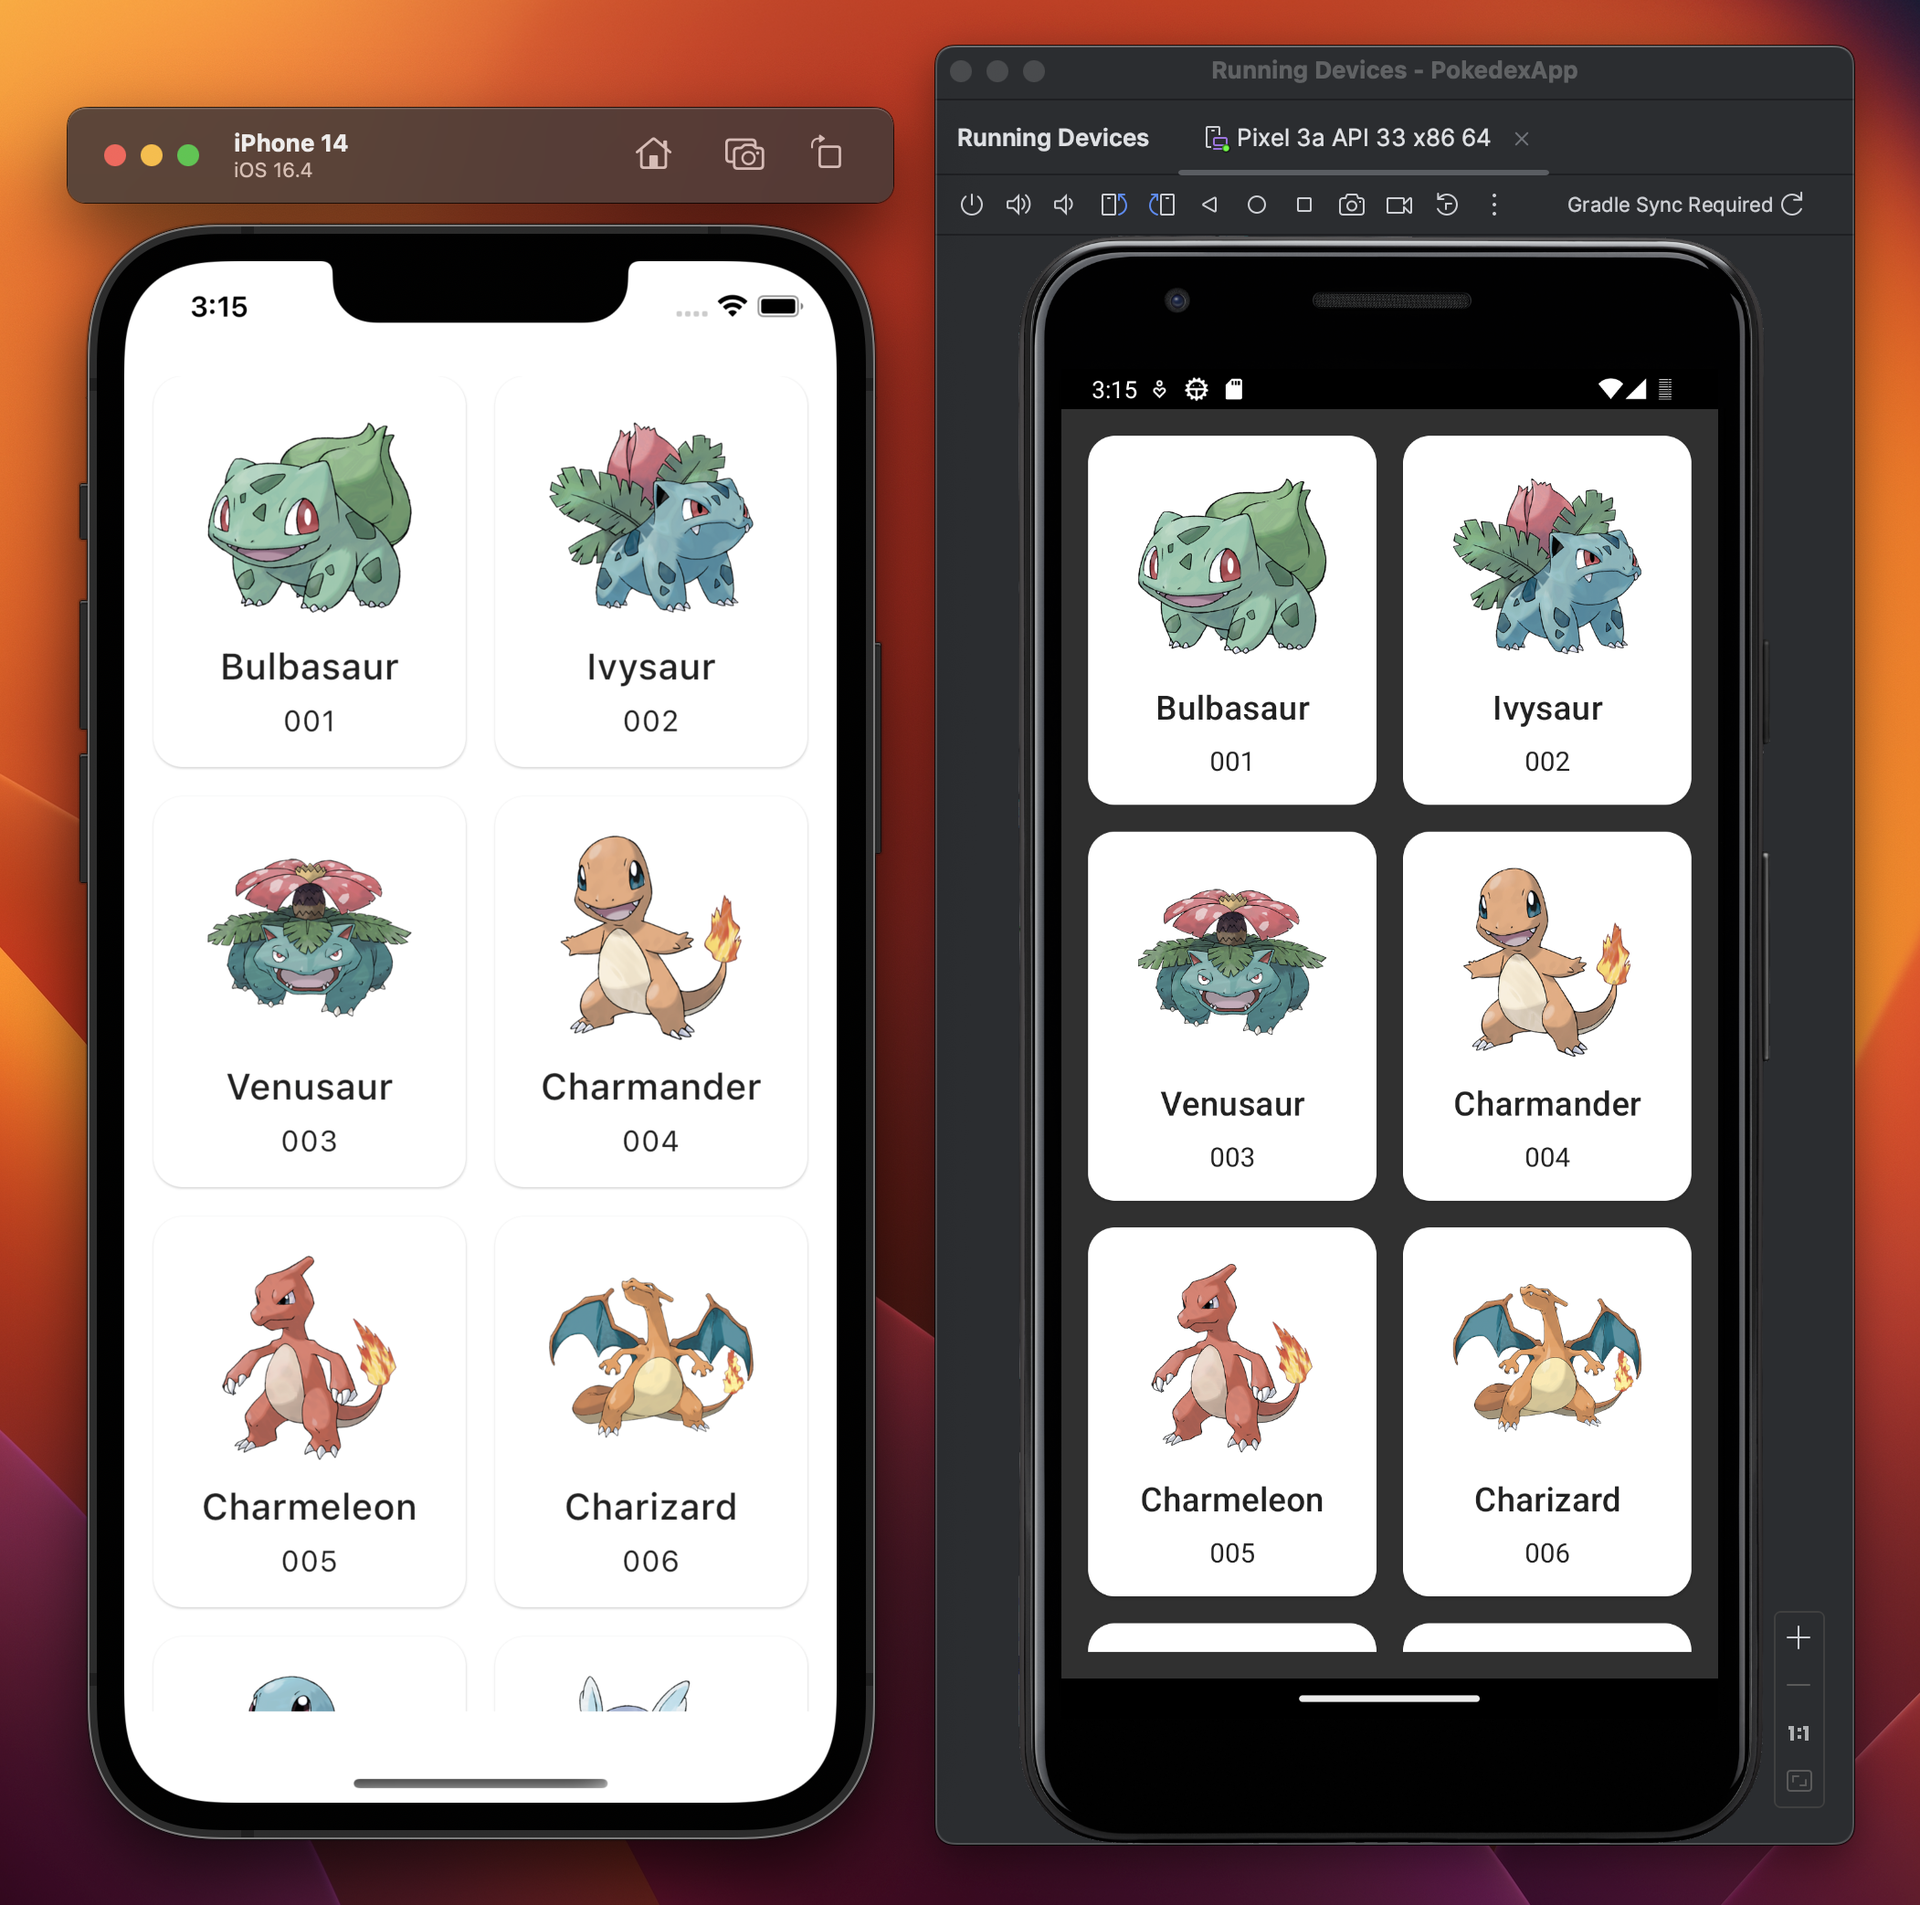
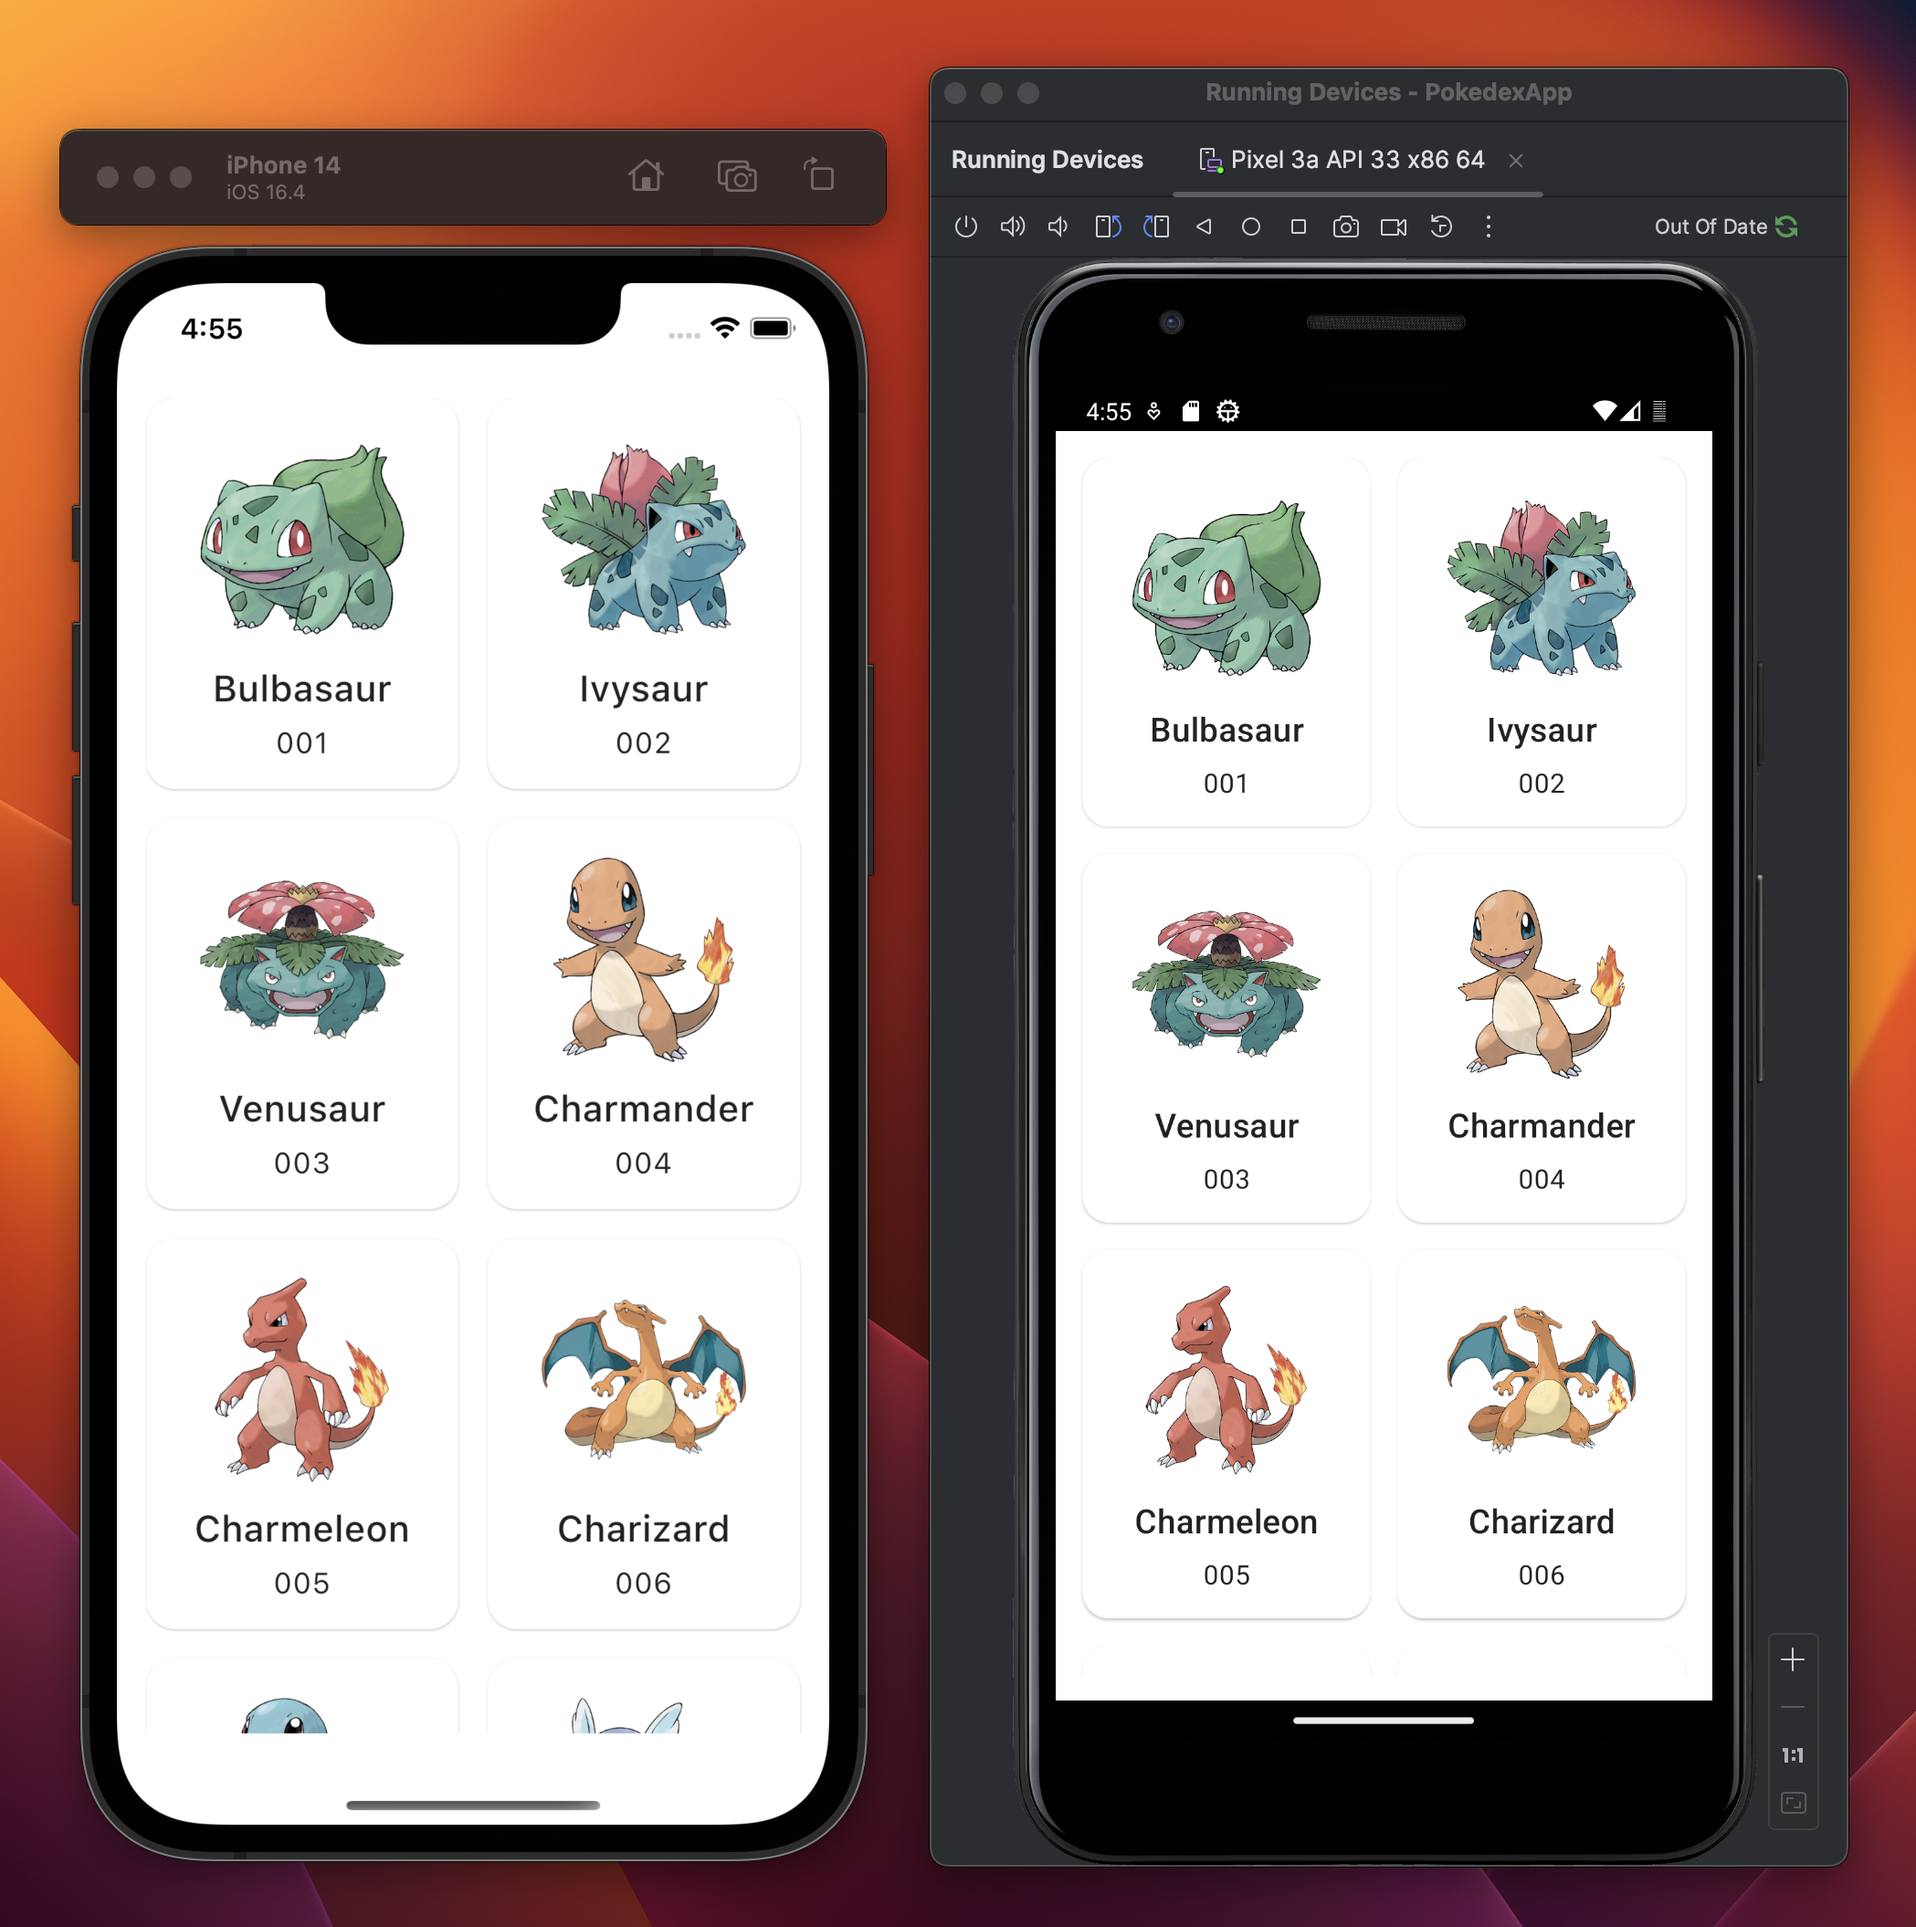
utils extracted from pokemon class

diff --git a/shared/src/commonMain/kotlin/com/example/pokedexapp/App.kt b/shared/src/commonMain/kotlin/com/example/pokedexapp/App.kt
@@ -1,39 +1,21 @@
 package com.example.pokedexapp
 
-import androidx.compose.animation.AnimatedVisibility
-import androidx.compose.foundation.layout.Arrangement
-import androidx.compose.foundation.layout.Column
-import androidx.compose.foundation.layout.Spacer
-import androidx.compose.foundation.layout.fillMaxSize
-import androidx.compose.foundation.layout.fillMaxWidth
-import androidx.compose.foundation.layout.height
-import androidx.compose.foundation.layout.padding
-import androidx.compose.foundation.lazy.grid.GridCells
-import androidx.compose.foundation.lazy.grid.LazyVerticalGrid
-import androidx.compose.foundation.lazy.grid.items
-import androidx.compose.foundation.shape.RoundedCornerShape
-import androidx.compose.material.Card
 import androidx.compose.material.MaterialTheme
-import androidx.compose.material.Text
+import androidx.compose.material.Surface
 import androidx.compose.runtime.Composable
-import androidx.compose.runtime.collectAsState
-import androidx.compose.runtime.getValue
 import androidx.compose.ui.Modifier
-import androidx.compose.ui.text.style.TextAlign
-import androidx.compose.ui.unit.Dp
-import androidx.compose.ui.unit.dp
-import com.example.pokedexapp.listview.data.model.Pokemon
+import com.example.pokedexapp.listview.ui.view.PokemonListView
 import com.example.pokedexapp.listview.ui.viewmodel.PokemonListViewModel
 import dev.icerock.moko.mvvm.compose.getViewModel
 import dev.icerock.moko.mvvm.compose.viewModelFactory
-import io.kamel.image.KamelImage
-import io.kamel.image.asyncPainterResource
 
 @Composable
 fun App() {
     val viewModel: PokemonListViewModel = getViewModel(Unit, viewModelFactory { PokemonListViewModel() })
     MaterialTheme {
-        PokedexApp(viewModel)
+        Surface {
+            PokedexApp(viewModel)
+        }
     }
 }
 
@@ -42,61 +24,5 @@ fun PokedexApp(
     viewModel: PokemonListViewModel,
     modifier: Modifier = Modifier
 ) {
-    val uiState by viewModel.uiState.collectAsState()
-    val gridPadding: Dp = 16.dp
-    AnimatedVisibility(uiState.pokemonList.isNotEmpty()) {
-        LazyVerticalGrid(
-            columns = GridCells.Fixed(2),
-            horizontalArrangement = Arrangement.spacedBy(gridPadding),
-            verticalArrangement = Arrangement.spacedBy(gridPadding),
-            modifier = modifier.fillMaxSize().padding(gridPadding),
-            content = {
-                items(uiState.pokemonList) { pokemon: Pokemon ->
-                    PokemonCard(
-                        imageUrl = pokemon.imageUrl,
-                        name = pokemon.name,
-                        id = pokemon.idWithLeadingZeros,
-                        detailedUrl = pokemon.detailedUrl
-                    )
-                }
-            }
-        )
-    }
-}
-
-@Composable
-fun PokemonCard(
-    imageUrl: String,
-    name: String,
-    id: String,
-    detailedUrl: String,
-) {
-    Card(
-        shape = RoundedCornerShape(16.dp),
-    ) {
-        Column(
-            modifier = Modifier.padding(16.dp)
-        ) {
-            KamelImage(
-                asyncPainterResource(imageUrl),
-                contentDescription = "Pokemon image",
-                modifier = Modifier
-                    .padding(horizontal = 8.dp)
-            )
-            Spacer(modifier = Modifier.height(8.dp))
-            Text(
-                text = name,
-                style = MaterialTheme.typography.h6,
-                textAlign = TextAlign.Center,
-                modifier = Modifier.fillMaxWidth()
-            )
-            Spacer(modifier = Modifier.height(8.dp))
-            Text(
-                text = id,
-                style = MaterialTheme.typography.body1,
-                textAlign = TextAlign.Center,
-                modifier = Modifier.fillMaxWidth()
-            )
-        }
-    }
+    PokemonListView(viewModel, modifier)
 }

diff --git a/shared/src/commonMain/kotlin/com/example/pokedexapp/listview/ui/view/PokemonListView.kt b/shared/src/commonMain/kotlin/com/example/pokedexapp/listview/ui/view/PokemonListView.kt
@@ -1,0 +1,90 @@
+package com.example.pokedexapp.listview.ui.view
+
+import androidx.compose.animation.AnimatedVisibility
+import androidx.compose.foundation.layout.Arrangement
+import androidx.compose.foundation.layout.Column
+import androidx.compose.foundation.layout.Spacer
+import androidx.compose.foundation.layout.fillMaxSize
+import androidx.compose.foundation.layout.fillMaxWidth
+import androidx.compose.foundation.layout.height
+import androidx.compose.foundation.layout.padding
+import androidx.compose.foundation.lazy.grid.GridCells
+import androidx.compose.foundation.lazy.grid.LazyVerticalGrid
+import androidx.compose.foundation.lazy.grid.items
+import androidx.compose.foundation.shape.RoundedCornerShape
+import androidx.compose.material.Card
+import androidx.compose.material.MaterialTheme
+import androidx.compose.material.Text
+import androidx.compose.runtime.Composable
+import androidx.compose.runtime.collectAsState
+import androidx.compose.runtime.getValue
+import androidx.compose.ui.Modifier
+import androidx.compose.ui.text.style.TextAlign
+import androidx.compose.ui.unit.Dp
+import androidx.compose.ui.unit.dp
+import com.example.pokedexapp.listview.data.model.Pokemon
+import com.example.pokedexapp.listview.ui.viewmodel.PokemonListViewModel
+import io.kamel.image.KamelImage
+import io.kamel.image.asyncPainterResource
+
+
+@Composable
+fun PokemonListView(viewModel: PokemonListViewModel, modifier: Modifier) {
+    val uiState by viewModel.uiState.collectAsState()
+    val gridPadding: Dp = 16.dp
+    AnimatedVisibility(uiState.pokemonList.isNotEmpty()) {
+        LazyVerticalGrid(
+            columns = GridCells.Fixed(2),
+            horizontalArrangement = Arrangement.spacedBy(gridPadding),
+            verticalArrangement = Arrangement.spacedBy(gridPadding),
+            modifier = modifier.fillMaxSize().padding(gridPadding),
+            content = {
+                items(uiState.pokemonList) { pokemon: Pokemon ->
+                    PokemonCard(
+                        imageUrl = pokemon.imageUrl,
+                        name = pokemon.name,
+                        id = pokemon.id,
+                        detailedUrl = pokemon.detailedUrl
+                    )
+                }
+            }
+        )
+    }
+}
+
+@Composable
+fun PokemonCard(
+    imageUrl: String,
+    name: String,
+    id: String,
+    detailedUrl: String,
+) {
+    Card(
+        shape = RoundedCornerShape(16.dp),
+    ) {
+        Column(
+            modifier = Modifier.padding(16.dp)
+        ) {
+            KamelImage(
+                asyncPainterResource(imageUrl),
+                contentDescription = "Pokemon image",
+                modifier = Modifier
+                    .padding(horizontal = 8.dp)
+            )
+            Spacer(modifier = Modifier.height(8.dp))
+            Text(
+                text = name,
+                style = MaterialTheme.typography.h6,
+                textAlign = TextAlign.Center,
+                modifier = Modifier.fillMaxWidth()
+            )
+            Spacer(modifier = Modifier.height(8.dp))
+            Text(
+                text = id,
+                style = MaterialTheme.typography.body1,
+                textAlign = TextAlign.Center,
+                modifier = Modifier.fillMaxWidth()
+            )
+        }
+    }
+}

diff --git a/shared/src/commonMain/kotlin/com/example/pokedexapp/listview/data/model/Pokemon.kt b/shared/src/commonMain/kotlin/com/example/pokedexapp/listview/data/model/Pokemon.kt
@@ -1,40 +1,8 @@
 package com.example.pokedexapp.listview.data.model
 
-import com.example.pokedexapp.listview.data.api.PokemonListDto
-
 data class Pokemon(
-    val id: Int,
+    val id: String,
     val name: String,
     val imageUrl: String,
     val detailedUrl: String,
-) {
-    companion object {
-        fun fromDto(dto: PokemonListDto.PokemonDto): Pokemon {
-            val id: Int = extractPokemonId(dto.url)
-            return Pokemon(
-                id = id,
-                name = capitalize(dto.name),
-                imageUrl = getImageUrl(id),
-                detailedUrl = dto.url
-            )
-        }
-
-        private fun extractPokemonId(url: String): Int {
-            // Extract the Pokemon ID from the URL
-            val parts = url.split("/")
-            return parts[parts.size - 2].toInt()
-        }
-
-        private fun getImageUrl(id: Int): String {
-            return "https://raw.githubusercontent.com/PokeAPI/sprites/master/sprites/pokemon/other/official-artwork/${id}.png"
-        }
-
-        private fun capitalize(str: String): String {
-            return str.replaceFirstChar { if (it.isLowerCase()) it.titlecase() else it.toString() }
-        }
-    }
-
-    val idWithLeadingZeros: String
-        get() = id.toString().padStart(3, '0')
-}
-
+)

diff --git a/shared/src/commonMain/kotlin/com/example/pokedexapp/listview/data/utils/PokemonUtils.kt b/shared/src/commonMain/kotlin/com/example/pokedexapp/listview/data/utils/PokemonUtils.kt
@@ -1,0 +1,37 @@
+package com.example.pokedexapp.listview.data.utils
+
+import com.example.pokedexapp.listview.data.api.PokemonListDto
+import com.example.pokedexapp.listview.data.model.Pokemon
+
+
+object PokemonUtils {
+
+    fun toPokemonFromDto(dto: PokemonListDto.PokemonDto): Pokemon {
+        val id: Int = extractPokemonId(dto.url)
+
+        return Pokemon(
+            id = idWithLeadingZeros(id),
+            name = capitalize(dto.name),
+            imageUrl = getImageUrl(id),
+            detailedUrl = dto.url
+        )
+    }
+
+    private fun extractPokemonId(url: String): Int {
+        // Extract the Pokemon ID from the URL
+        val parts = url.split("/")
+        return parts[parts.size - 2].toInt()
+    }
+
+    private fun getImageUrl(id: Int): String {
+        return "https://raw.githubusercontent.com/PokeAPI/sprites/master/sprites/pokemon/other/official-artwork/${id}.png"
+    }
+
+    private fun capitalize(str: String): String {
+        return str.replaceFirstChar { if (it.isLowerCase()) it.titlecase() else it.toString() }
+    }
+
+    private fun idWithLeadingZeros(id: Int): String {
+        return id.toString().padStart(3, '0')
+    }
+}

diff --git a/shared/src/commonMain/kotlin/com/example/pokedexapp/listview/data/repository/PokemonRepositoryImpl.kt b/shared/src/commonMain/kotlin/com/example/pokedexapp/listview/data/repository/PokemonRepositoryImpl.kt
@@ -2,6 +2,7 @@ package com.example.pokedexapp.listview.data.repository
 
 import com.example.pokedexapp.listview.data.api.PokemonListDto
 import com.example.pokedexapp.listview.data.model.Pokemon
+import com.example.pokedexapp.listview.data.utils.PokemonUtils
 import io.ktor.client.HttpClient
 import io.ktor.client.call.body
 import io.ktor.client.plugins.contentnegotiation.ContentNegotiation
@@ -25,7 +26,7 @@ class PokemonRepositoryImpl : PokemonRepository {
             .body<PokemonListDto>()
 
         pokemonList = pokemonListDto.pokemonDtos.map { pokemonDto ->
-            Pokemon.fromDto(pokemonDto)
+            PokemonUtils.toPokemonFromDto(pokemonDto)
         }
 
         return pokemonList

diff --git a/androidApp/src/main/java/com/example/pokedexapp/android/MainActivity.kt b/androidApp/src/main/java/com/example/pokedexapp/android/MainActivity.kt
@@ -9,9 +9,7 @@ class MainActivity : ComponentActivity() {
     override fun onCreate(savedInstanceState: Bundle?) {
         super.onCreate(savedInstanceState)
         setContent {
-            MyApplicationTheme {
-                App()
-            }
+            App()
         }
     }
 }

diff --git a/README.md b/README.md
@@ -4,6 +4,6 @@ This is a pokedex app using KMP (Kotlin Multiplatform), using the [PokeAPI](http
 
 UI Inspiration: [Sulis Triyono](https://dribbble.com/shots/16833947-Mobile-Pokedex-App-Design-Exploration)
 
-## Screenshot of current version:
+## Screenshot of current version
 
 ![Screenshot of Pokemon Card Grid](ressources/images/PokemonListView.png)
